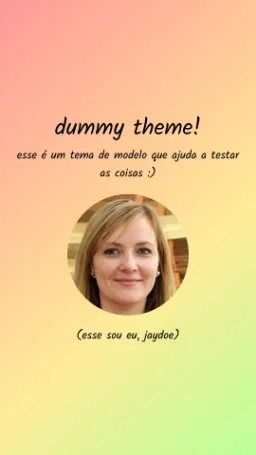
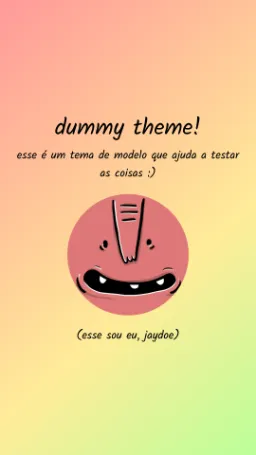
🖼 Add new demo collages with new dummy images

Changed region(s): [[0.25, 0.4, 0.75, 0.7077]]

diff --git a/src/utils/api/fetch-dummy-data.ts b/src/utils/api/fetch-dummy-data.ts
@@ -1,8 +1,11 @@
-const placeholderImage = 'https://i.imgur.com/y17yg7c.png'
+import dotenv from 'dotenv';
+dotenv.config();
+
+const placeholderAvatarUrl = 'https://adorable-avatars.broken.services';
 
 const dummyTrack = {
   name: 'Dummy Song',
-  image: placeholderImage,
+  image: '',
   artist: {
     name: 'Unknown Artist'
   },
@@ -108,9 +111,7 @@ const artistNames = [
   'Faith Laine',
   'Violet Johnson',
   'Melissa',
-]
-
-const artists = [];
+];
 
 const getRandomInt = (min, max) => {
   min = Math.ceil(min);
@@ -118,23 +119,21 @@ const getRandomInt = (min, max) => {
   return Math.floor(Math.random() * (max - min + 1)) + min;
 }
 
-const imageUrl = 'https://thispersondoesnotexist.com/image';
-// const imageUrl = `https://avatars.dicebear.com/api/big-ears-neutral/${getRandomInt(0, 1000)}.svg`;
-
-const user = {
-  playcount: getRandomInt(1000, 10000),
-  realname: 'Jay Doe',
-  image: [
-    { size: 'small',      '#text': imageUrl },
-    { size: 'medium',     '#text': imageUrl },
-    { size: 'large',      '#text': imageUrl },
-    { size: 'extralarge', '#text': imageUrl },
-  ],
-  gender: 'n',
-  name: 'jaydoe',
-};
-
 const fetchDummyData = (limit: number) => {
+  const userAvatar = `${placeholderAvatarUrl}/${getRandomInt(0, 1000)}`;
+  const user = {
+    playcount: getRandomInt(1000, 10000),
+    realname: 'Jay Doe',
+    image: [
+      { size: 'small',      '#text': userAvatar },
+      { size: 'medium',     '#text': userAvatar },
+      { size: 'large',      '#text': userAvatar },
+      { size: 'extralarge', '#text': userAvatar },
+    ],
+    gender: 'n',
+    name: 'jaydoe',
+  };
+
   const track = [];
   for (let i = 0; i < limit; i++) {
     const newTrack = { ...dummyTrack };
@@ -143,6 +142,7 @@ const fetchDummyData = (limit: number) => {
     newTrack.artist.name = artistNames[Math.floor(Math.random() * artistNames.length)];
     newTrack['@attr'].rank = i + 1;
     newTrack.playcount = i * (limit - i) * getRandomInt(10, 20);
+    newTrack.image = `${process.env.SEMANINHA_URL}/img/placeholders/cover-${i}.webp`;
     track.push(newTrack);
   }
 
@@ -150,7 +150,7 @@ const fetchDummyData = (limit: number) => {
   for (let i = 0; i < limit; i++) {
     artist.push({
       name: artistNames[Math.floor(Math.random() * artistNames.length)],
-      image: placeholderImage,
+      image: `${placeholderAvatarUrl}/${getRandomInt(0, 1000)}`,
       playcount: getRandomInt(2, 5) * (limit - i)
     });
   }

diff --git a/src/utils/api/validate-generate-request.ts b/src/utils/api/validate-generate-request.ts
@@ -25,7 +25,7 @@ const validateGenerateRequest = async (params: Params, ratios: Ratio[], fields: 
     const inputValue = params?.fields[field.id];
     if (!inputValue) fieldErrors.push(`Missing field ${field.id}`);
     
-    const isInputValid = field.values?.find(x => x == inputValue) || (inputValue > 0 && inputValue < field.colors.length);
+    const isInputValid = field.values?.find(x => x == inputValue) || (inputValue >= 0 && inputValue < field.colors.length);
     if (!isInputValid) fieldErrors.push(`Invalid value for field ${field.id}`);
   });
   if (fieldErrors.length) return [ null, { status: 400, body: { error: fieldErrors.join('. ') } } ];
